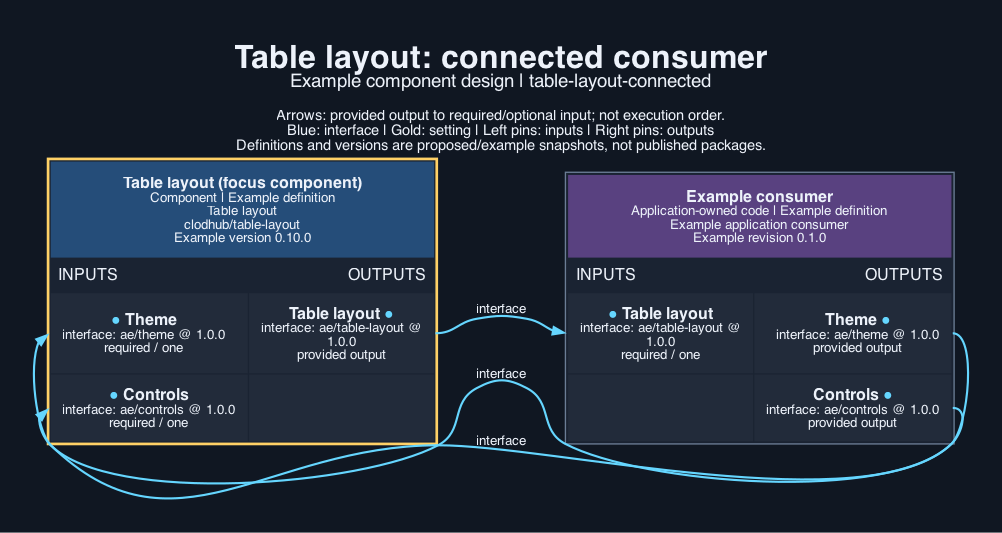
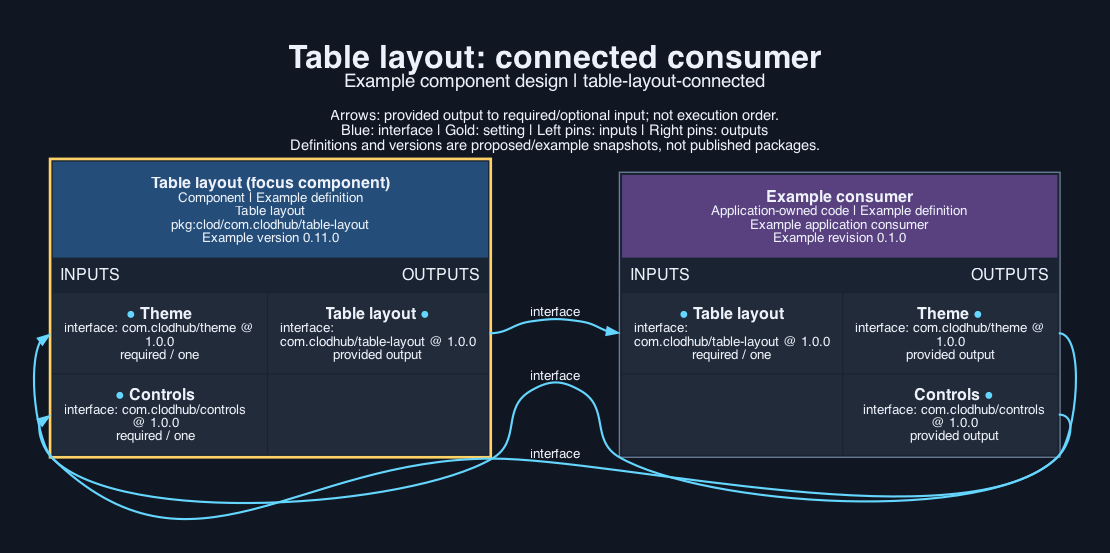
table-layout 0.11.0: package URL names, clod, com.clodhub interface types and Kotlin packages

Changed region(s): [[0.0309, 0.06, 0.99, 0.9606], [0.0, 0.9906, 1.0, 1.0], [0.5259, 0.7205, 0.5569, 0.8105]]

diff --git a/tests/web.test.ts b/tests/web.test.ts
@@ -235,7 +235,7 @@ test("a consumer lays names out for any screen without a game", () => {
 test("the OpenRPC interface describes the layout shape and the exported functions", async () => {
   const doc = JSON.parse(readFileSync(new URL("../interfaces/table-layout.json", import.meta.url), "utf8"));
   assert.equal(doc.openrpc, "1.3.2");
-  assert.deepEqual([doc.info.title, doc.info.version], ["ae/table-layout", "1.0.0"]);
+  assert.deepEqual([doc.info.title, doc.info.version], ["com.clodhub/table-layout", "1.0.0"]);
   const { TableLayout: shape, SeatSpot, Limits, Orientation } = doc.components.schemas;
   for (const o of Orientation.enum as Orientation[]) {
     const l = layoutOf(5, o);

diff --git a/tests/apple/theme/ThemeTypes.swift b/tests/apple/theme/ThemeTypes.swift
@@ -16,7 +16,7 @@ struct ThemeColour: Equatable {
         alpha = Double(rgba & 0xFF) / 255
     }
 
-    // An installer colour: "hex e0b35a" (an aepm string setting cannot hold "#" and starts with a
+    // An installer colour: "hex e0b35a" (a clod string setting cannot hold "#" and starts with a
     // letter), "#rrggbb", "rrggbb", each optionally with two more digits of opacity; nil for anything else.
     static func setting(_ value: String) -> ThemeColour? {
         var text = value.trimmingCharacters(in: .whitespaces)

diff --git a/implementation/android/src/main/java/com/clodhub/tablelayout/PlacedSeats.kt b/implementation/android/src/main/java/com/clodhub/tablelayout/PlacedSeats.kt
@@ -1,4 +1,4 @@
-package ae.tablelayout
+package com.clodhub.tablelayout
 
 // Where each seat's hidden cards, open cards and stake sit on the portrait table, as fractions of the table box,
 // by seat count (2 to 9) and seat index (0 is the viewer's at the bottom, then clockwise). Same data as web/placed-seats.ts.

diff --git a/implementation/android/src/main/java/com/clodhub/tablelayout/OvalTable.kt b/implementation/android/src/main/java/com/clodhub/tablelayout/OvalTable.kt
@@ -1,6 +1,6 @@
-package ae.tablelayout
+package com.clodhub.tablelayout
 
-import ae.theme.ThemeSet
+import com.clodhub.theme.ThemeSet
 import androidx.compose.foundation.Canvas
 import androidx.compose.foundation.layout.Box
 import androidx.compose.foundation.layout.aspectRatio

diff --git a/implementation/android/src/main/java/com/clodhub/tablelayout/TableLayout.kt b/implementation/android/src/main/java/com/clodhub/tablelayout/TableLayout.kt
@@ -1,4 +1,4 @@
-package ae.tablelayout
+package com.clodhub.tablelayout
 
 import kotlin.math.PI
 import kotlin.math.atan2

diff --git a/tests/android/Main.kt b/tests/android/Main.kt
@@ -1,4 +1,4 @@
-import ae.tablelayout.*
+import com.clodhub.tablelayout.*
 import kotlin.math.PI
 import kotlin.math.abs
 

diff --git a/CONTRACT.md b/CONTRACT.md
@@ -11,9 +11,9 @@ No installer settings. The application passes the seat count, the screen size, w
 ## Artefacts and dependencies
 `component.json` maps every `implementation/` source into `components/table-layout/`:
 
-- `implementation/android/src/main/java/ae/tablelayout/OvalTable.kt` -> `components/table-layout/android/src/main/java/ae/tablelayout/OvalTable.kt`
-- `implementation/android/src/main/java/ae/tablelayout/PlacedSeats.kt` -> `components/table-layout/android/src/main/java/ae/tablelayout/PlacedSeats.kt`
-- `implementation/android/src/main/java/ae/tablelayout/TableLayout.kt` -> `components/table-layout/android/src/main/java/ae/tablelayout/TableLayout.kt`
+- `implementation/android/src/main/java/com/clodhub/tablelayout/OvalTable.kt` -> `components/table-layout/android/src/main/java/com/clodhub/tablelayout/OvalTable.kt`
+- `implementation/android/src/main/java/com/clodhub/tablelayout/PlacedSeats.kt` -> `components/table-layout/android/src/main/java/com/clodhub/tablelayout/PlacedSeats.kt`
+- `implementation/android/src/main/java/com/clodhub/tablelayout/TableLayout.kt` -> `components/table-layout/android/src/main/java/com/clodhub/tablelayout/TableLayout.kt`
 - `implementation/apple/Sources/PlacedSeats.swift` -> `components/table-layout/apple/Sources/PlacedSeats.swift`
 - `implementation/apple/Sources/TableLayout.swift` -> `components/table-layout/apple/Sources/TableLayout.swift`
 - `implementation/apple/Sources/TableView.swift` -> `components/table-layout/apple/Sources/TableView.swift`
@@ -26,11 +26,11 @@ Dependencies: none.
 `tools.lock.json` pins verification tools: node 26.5, python3 3.12, swiftc 6.4, xcrun 72, kotlinc 2.2, java 26.0. Licence wording remains deferred.
 
 ## Provided interfaces
-- `interfaces/table-layout.json` defines `table-layout` (ae/table-layout) version 1.0.0 as an OpenRPC 1.3.2 document: one method per web function (`Ring` and its methods as `Ring.angle` and so on), each description naming the Swift and Kotlin form or saying it is web only, with `TableLayout`, `SeatSpot`, `Point`, `PlacedSeats` and the seat limits as JSON Schema 2020-12 under `components.schemas`. Seat callbacks and DOM nodes are described as host values, not serialised.
+- `interfaces/table-layout.json` defines `table-layout` (com.clodhub/table-layout) version 1.0.0 as an OpenRPC 1.3.2 document: one method per web function (`Ring` and its methods as `Ring.angle` and so on), each description naming the Swift and Kotlin form or saying it is web only, with `TableLayout`, `SeatSpot`, `Point`, `PlacedSeats` and the seat limits as JSON Schema 2020-12 under `components.schemas`. Seat callbacks and DOM nodes are described as host values, not serialised.
 
 ## Required interfaces
-- `theme` (ae/theme) version 1.0.0, supplied by the recipe or application. Its interface document is a copy of the theme component's OpenRPC document; table-layout reads the theme's `--table` and `--table-edge` CSS variables (web) and `ThemeSet` colours (Swift, Kotlin).
-- `controls` (ae/controls) version 1.0.0, supplied by the recipe or application. Its interface document is a copy of the controls component's OpenRPC document; `tvScreen` takes the node its `banner` builds and table-layout calls no controls function itself.
+- `theme` (com.clodhub/theme) version 1.0.0, supplied by the recipe or application. Its interface document is a copy of the theme component's OpenRPC document; table-layout reads the theme's `--table` and `--table-edge` CSS variables (web) and `ThemeSet` colours (Swift, Kotlin).
+- `controls` (com.clodhub/controls) version 1.0.0, supplied by the recipe or application. Its interface document is a copy of the controls component's OpenRPC document; `tvScreen` takes the node its `banner` builds and table-layout calls no controls function itself.
 
 ## Integration
 Web: call `tableLayout` (or `tableFor`, which also chooses the class from the screen size) and `tableView` from `web/table-view.ts`, passing a function that returns the node for each seat and a centre node; link `web/table-layout.css` after the theme's CSS (it reads `--table` and `--table-edge`). `tvScreen` wraps a table with a title, the controls component's `banner` and an exit control. Use `relativeSeat` to turn a server seat number into a position relative to the viewer. Apple: compile `PlacedSeats.swift` and `TableLayout.swift` anywhere, and `TableView.swift` (`OvalTable`, `TelevisionTable`) in UIKit targets with the theme's Swift files. Android: add `PlacedSeats.kt`, `TableLayout.kt` and `OvalTable.kt` to a Compose module with the theme's Kotlin files. Betting controls, cards, chips and poker text are not here: seats and the centre are the caller's, usually built from `card-graphics`, `chip-graphics` and `controls`.

diff --git a/INSTRUCTIONS.md b/INSTRUCTIONS.md
@@ -1,13 +1,13 @@
 # Table layout instructions
 
 ## For the agent
-Select `clodhub/table-layout`; connect `theme` to the theme component and `controls` to the controls component. It applies to any recipe with a table of 2 to 9 seats; for fewer or more seats say so, as the portrait positions are placed data for 2 to 9 only.
+Select `pkg:clod/com.clodhub/table-layout`; connect `theme` to the theme component and `controls` to the controls component. It applies to any recipe with a table of 2 to 9 seats; for fewer or more seats say so, as the portrait positions are placed data for 2 to 9 only.
 
-- Select package `clodhub/table-layout` version `0.10.0`.
+- Select package `pkg:clod/com.clodhub/table-layout` version `0.11.0`.
 - No installer settings.
-- Connect the provided `table-layout` (ae/table-layout 1.0.0, OpenRPC 1.3.2 document `interfaces/table-layout.json`) to the consumer that needs it.
-- Supply `theme` (ae/theme 1.0.0) from the component that provides it.
-- Supply `controls` (ae/controls 1.0.0) from the component that provides it.
+- Connect the provided `table-layout` (com.clodhub/table-layout 1.0.0, OpenRPC 1.3.2 document `interfaces/table-layout.json`) to the consumer that needs it.
+- Supply `theme` (com.clodhub/theme 1.0.0) from the component that provides it.
+- Supply `controls` (com.clodhub/controls 1.0.0) from the component that provides it.
 - No accounts or keys are needed.
 
 ## For the developer
@@ -19,4 +19,4 @@ From the component directory:
 - `node --test tests/web.test.ts` (web, required-local; tools: node 26.5)
 - `python3 tests/native.py apple` (apple, platform; tools: python3 3.12, swiftc 6.4, xcrun 72)
 - `python3 tests/native.py android` (android, platform; tools: python3 3.12, kotlinc 2.2, java 26.0)
-- `python3 -m aepm review <digest> --store STORE --policy POLICY --trusted --allow-network` checks an archive fetched with `python3 -m aepm fetch clodhub/table-layout@VERSION --store STORE --from https://clodhub.com` and runs its suites.
+- `python3 -m clod review <digest> --store STORE --policy POLICY --trusted --allow-network` checks an archive fetched with `python3 -m clod fetch table-layout@VERSION --store STORE --from https://clodhub.com` and runs its suites.

diff --git a/SOURCE.md b/SOURCE.md
@@ -17,9 +17,9 @@ Reference revision: `19905b75dbea89fbfd424d67fe26c81aaed0e018`. Extracted from t
 
 ## Android
 
-- `implementation/android/src/main/java/ae/tablelayout/PlacedSeats.kt` <- `android/app/src/main/java/app/ourapps/ourpoker/ui/Layout.kt:1-35` (same data, `Pair` instead of `FloatArray`, doubles).
-- `implementation/android/src/main/java/ae/tablelayout/TableLayout.kt` <- `ui/Chips.kt:98-131` (`Spots`) for the portrait part; the landscape ring and television layout are `generated-platform`, translated from the Swift (the recipe's Android has only the portrait table, `ui/TableScreen.kt:212` `aspectRatio(1f / 1.3f)`).
-- `implementation/android/src/main/java/ae/tablelayout/OvalTable.kt` <- new Compose view (`generated-platform`) over the placement in `ui/TableScreen.kt:212-400`.
+- `implementation/android/src/main/java/com/clodhub/tablelayout/PlacedSeats.kt` <- `android/app/src/main/java/app/ourapps/ourpoker/ui/Layout.kt:1-35` (same data, `Pair` instead of `FloatArray`, doubles).
+- `implementation/android/src/main/java/com/clodhub/tablelayout/TableLayout.kt` <- `ui/Chips.kt:98-131` (`Spots`) for the portrait part; the landscape ring and television layout are `generated-platform`, translated from the Swift (the recipe's Android has only the portrait table, `ui/TableScreen.kt:212` `aspectRatio(1f / 1.3f)`).
+- `implementation/android/src/main/java/com/clodhub/tablelayout/OvalTable.kt` <- new Compose view (`generated-platform`) over the placement in `ui/TableScreen.kt:212-400`.
 
 ## Tests
 

diff --git a/.opencode/knowledge/00-index.md b/.opencode/knowledge/00-index.md
@@ -1,5 +1,5 @@
 # table-layout ownership
 
 Repository: https://github.com/clodhub/table-layout.git.
-Current code: `implementation/android/src/main/java/ae/tablelayout/OvalTable.kt`, `implementation/android/src/main/java/ae/tablelayout/PlacedSeats.kt`, `implementation/android/src/main/java/ae/tablelayout/TableLayout.kt`, `implementation/apple/Sources/PlacedSeats.swift`, `implementation/apple/Sources/TableLayout.swift`, `implementation/apple/Sources/TableView.swift`, `implementation/web/layout.ts`, `implementation/web/placed-seats.ts`, `implementation/web/table-layout.css`, `implementation/web/table-view.ts`.
+Current code: `implementation/android/src/main/java/com/clodhub/tablelayout/OvalTable.kt`, `implementation/android/src/main/java/com/clodhub/tablelayout/PlacedSeats.kt`, `implementation/android/src/main/java/com/clodhub/tablelayout/TableLayout.kt`, `implementation/apple/Sources/PlacedSeats.swift`, `implementation/apple/Sources/TableLayout.swift`, `implementation/apple/Sources/TableView.swift`, `implementation/web/layout.ts`, `implementation/web/placed-seats.ts`, `implementation/web/table-layout.css`, `implementation/web/table-view.ts`.
 `component.json`, `tools.lock.json` and `visual/` are generated from `authoring/spec.json`; edit the spec, not the generated files. `CONTRACT.md`, `INSTRUCTIONS.md` and `SOURCE.md` are hand-written and kept on regeneration.

diff --git a/visual/output/description.md b/visual/output/description.md
@@ -1,3 +1,3 @@
 # Table layout
 
-The table-layout component at version 0.10.0 provides ae/table-layout version 1.0.0 to an illustrative application consumer, which in turn supplies ae/theme version 1.0.0 and ae/controls version 1.0.0. The 3 arrows each run from a named output to a required input of the same type and version. No configuration or secret values are displayed.
+The table-layout component at version 0.11.0 provides com.clodhub/table-layout version 1.0.0 to an illustrative application consumer, which in turn supplies com.clodhub/theme version 1.0.0 and com.clodhub/controls version 1.0.0. The 3 arrows each run from a named output to a required input of the same type and version. No configuration or secret values are displayed.

diff --git a/.opencode/knowledge/workflow.md b/.opencode/knowledge/workflow.md
@@ -2,5 +2,5 @@
 
 Repository: `clodhub/table-layout`. Licence: `Apache-2.0` (`LICENCE`, `NOTICE`).
 Suite commands (from the package root): `node --test tests/web.test.ts`; `python3 tests/native.py apple`; `python3 tests/native.py android`.
-Review a fetched archive: `python3 -m aepm review <digest> --store STORE --policy POLICY --trusted --allow-network`.
+Review a fetched archive: `python3 -m clod review <digest> --store STORE --policy POLICY --trusted --allow-network`.
 Always run Python with `-B`; never write bytecode into the repository.
